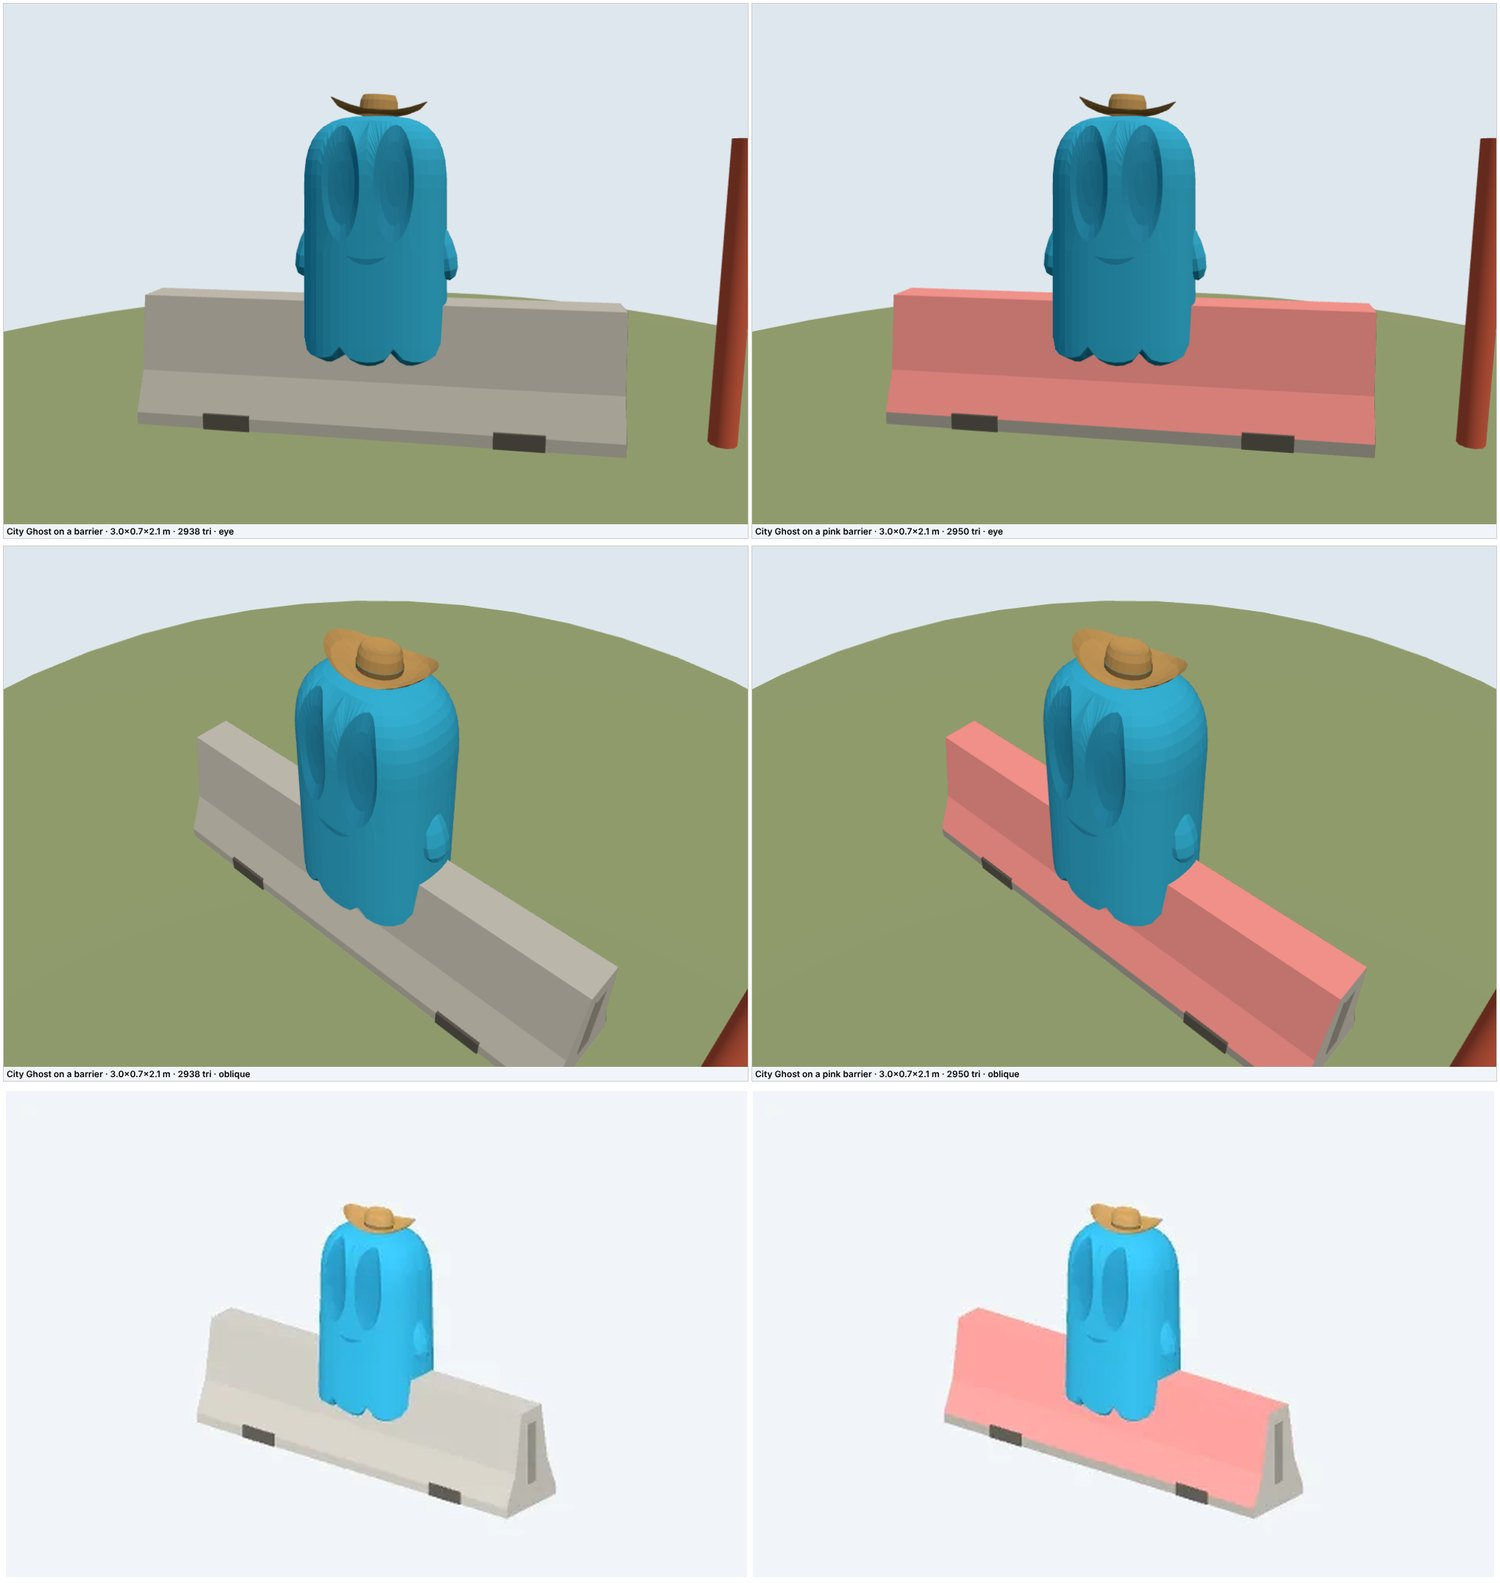
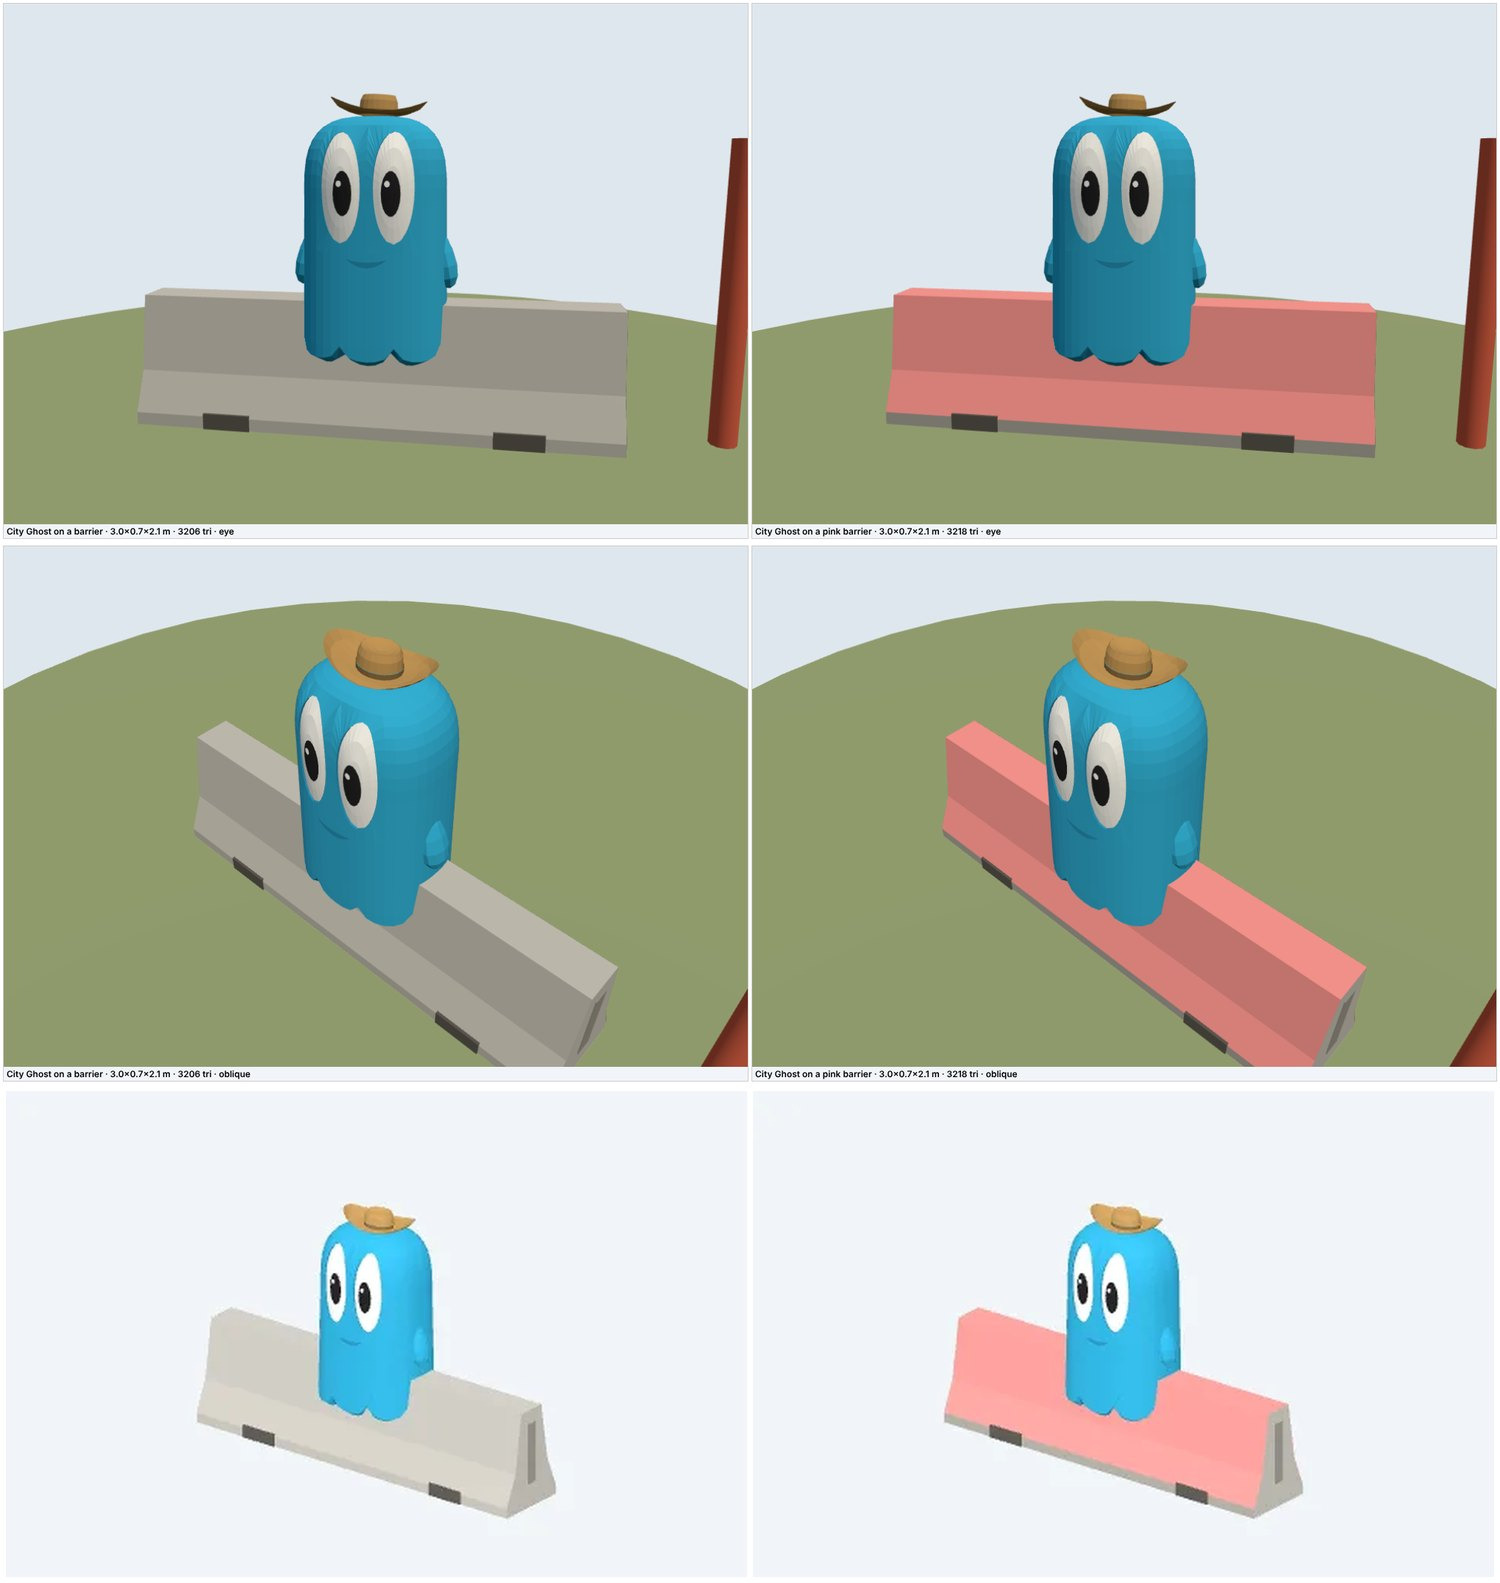
Give the City Ghost its white eyes and black pupils
A daylight photograph of the finished sculpture shows what the earlier
images did not: each eye socket holds a white insert with a tall black
pupil and a small white highlight. Both ghost models now match.

Each eye is still a block of the body's skin rebuilt around its oval. The
socket now steps 12 mm in at its edge and the white swells 8 mm proud in
the middle; the pupil and highlight are ovals that follow that curve. The
pupils sit slightly toward the nose and below centre. The eyes, mouth and
arms each move down a few centimetres to match the clearer view.

The 153 other models and their card images are byte-identical. A tools
test requires each pupil to lie wholly on the white of its eye.

Kit: 155 objects, 17.1 MB. Bundle: 8,433.4 KB of 8,448 KB.

Claude-Session: https://claude.ai/code/session_01Qre8Fgc7mAHy1S8q3QQMRz

diff --git a/tools/detail_catalogue/build_calgary_details.py b/tools/detail_catalogue/build_calgary_details.py
@@ -2605,20 +2605,22 @@ def district_barrier_seventeenth_ave_single(s):
 # ---------------------------------------------------------------------------
 # City Ghost: a public sculpture made to sit astride these barriers, modelled
 # from photographs and its concept sheet. A blue ghost just under 2 m tall with
-# two tall eye cups, a small smile, stubby arms and a cowboy hat. The sculpture
-# is its artist's work; see docs/CITY_GHOST_BARRIER_2026-11-17.md.
+# two tall white eyes, a small smile, stubby arms and a cowboy hat. The
+# sculpture is its artist's work; see docs/CITY_GHOST_BARRIER_2026-11-17.md.
 #
 # The ghost faces -y. Its body is one skin over rings of a rounded section: a
 # scalloped skirt that hangs either side of the barrier, straight sides and a
 # rounded head. Each eye is a block of that skin rebuilt around an oval, so the
-# cup has a clean edge and is truly set into the head.
+# socket has a clean edge and the white of the eye truly sits in it.
 # ---------------------------------------------------------------------------
 GHOST_BLUE, GHOST_CUP, GHOST_UNDER = '#27a8d2', '#1b8db6', '#187a9f'
+GHOST_WHITE, GHOST_PUPIL, GHOST_GLINT = '#f5f5f2', '#16161a', '#ffffff'
 GHOST_HAT, GHOST_HAT_BAND = '#b98f52', '#8a683a'
 GHOST_A, GHOST_B = .435, .33              # half width and half depth of the body
 GHOST_SKIRT, GHOST_SHOULDER, GHOST_TOP = .585, 1.44, 1.94
 GHOST_COLUMNS, GHOST_LOBES, GHOST_DROP = 48, 8, .125   # six columns to a lobe, so every cusp falls on one
-GHOST_EYE = (.155, 1.545, .115, .335)     # centre x, centre z, half width and half height of an eye
+GHOST_EYE = (.155, 1.52, .118, .32)       # centre x, centre z, half width and half height of an eye
+GHOST_LOOK = (.014, -.03, .056, .13)      # a pupil: how far toward the nose and how far up from the eye's centre, half width, half height
 
 
 def ghost_scale(z):
@@ -2663,8 +2665,9 @@ def ghost_section(count):
 
 def ghost_eye(s, grid, columns, rows, side):
     """Rebuild a block of the skin around one eye: a rim from the block's edge to the oval,
-    then the cup set into the head. columns and rows are the first and last grid lines of
-    the block; side is +1 for the eye at +x."""
+    a shallow step down into the socket, then the white of the eye, which swells gently
+    back out. The black pupil and its glint are painted just proud of the white. columns
+    and rows are the first and last grid lines of the block; side is +1 for the eye at +x."""
     ex, ez, rx, rz = side * GHOST_EYE[0], GHOST_EYE[1], GHOST_EYE[2], GHOST_EYE[3]
     count = len(grid[0])
     (i0, i1), (j0, j1) = columns, rows
@@ -2677,23 +2680,38 @@ def ghost_eye(s, grid, columns, rows, side):
         edge.append((x, y, z))
         oval.append((ex + (x - ex) / reach, ez + (z - ez) / reach))
 
-    def ring(share):
-        """The oval shrunk toward its centre and pushed into the head: flush at the rim, deepest in the middle."""
-        out = []
-        for x, z in oval:
-            px, pz = ex + (x - ex) * share, ez + (z - ez) * share
-            out.append((px, ghost_front(px, pz) + .045 * (1 - share * share) ** .55, pz))
-        return out
+    def white(x, z, proud=0.0):
+        """A point on the white of the eye: 12 mm inside the skin at the socket's edge,
+        swelling to 8 mm outside it in the middle."""
+        share = min(1.0, math.hypot((x - ex) / rx, (z - ez) / rz))
+        return (x, ghost_front(x, z) + .012 * share * share - .008 * (1 - share * share) - proud, z)
 
-    rings = [edge, ring(1.0), ring(.72), ring(.4)]
+    def ring(share):
+        return [white(ex + (x - ex) * share, ez + (z - ez) * share) for x, z in oval]
+
+    rings = [edge, [(x, ghost_front(x, z), z) for x, z in oval], ring(1.0), ring(.72), ring(.4)]
+    tones = (GHOST_BLUE, GHOST_CUP, GHOST_WHITE, GHOST_WHITE)
     total = len(border)
-    for r in range(3):
+    for r, tone in enumerate(tones):
         for k in range(total):
             n = (k + 1) % total
-            s.quad(rings[r][k], rings[r][n], rings[r + 1][n], rings[r + 1][k], GHOST_BLUE if r == 0 else GHOST_CUP)
-    centre = (ex, ghost_front(ex, ez) + .045, ez)
+            s.quad(rings[r][k], rings[r][n], rings[r + 1][n], rings[r + 1][k], tone)
     for k in range(total):
-        s.tri(rings[3][k], rings[3][(k + 1) % total], centre, GHOST_CUP)
+        s.tri(rings[-1][k], rings[-1][(k + 1) % total], white(ex, ez), GHOST_WHITE)
+
+    def patch(cx, cz, hx, hz, colour, proud, segments, shares):
+        """An oval painted on the white of the eye, following its curve."""
+        loops = [[white(cx + hx * share * math.cos(math.tau * k / segments), cz + hz * share * math.sin(math.tau * k / segments), proud) for k in range(segments)] for share in shares]
+        for r in range(len(loops) - 1):
+            for k in range(segments):
+                n = (k + 1) % segments
+                s.quad(loops[r][k], loops[r][n], loops[r + 1][n], loops[r + 1][k], colour)
+        for k in range(segments):
+            s.tri(loops[-1][k], loops[-1][(k + 1) % segments], white(cx, cz, proud), colour)
+
+    px, pz = ex - side * GHOST_LOOK[0], ez + GHOST_LOOK[1]
+    patch(px, pz, GHOST_LOOK[2], GHOST_LOOK[3], GHOST_PUPIL, .004, 18, (1.0, .55))
+    patch(px - .02, pz + .056, .017, .019, GHOST_GLINT, .007, 10, (1.0,))
 
 
 def ghost_blob(s, radii, taper, rings=7, sides=10):
@@ -2769,13 +2787,13 @@ def city_ghost(s):
 
     def lip(k, lower):
         x = -half + 2 * half * k / steps
-        z = 1.116 + .016 * (x / half) ** 2 - (.034 * (1 - (x / half) ** 2) if lower else 0.0)
+        z = 1.095 + .016 * (x / half) ** 2 - (.034 * (1 - (x / half) ** 2) if lower else 0.0)
         return (x, ghost_front(x, z) - .004, z)
     for k in range(steps):
         s.quad(lip(k, True), lip(k + 1, True), lip(k + 1, False), lip(k, False), GHOST_CUP)
 
     for side in (-1, 1):
-        with s.at(side * (GHOST_A * ghost_scale(1.13) - .012), -.02, 1.13, pitch=-side * .2):
+        with s.at(side * (GHOST_A * ghost_scale(1.08) - .012), -.02, 1.08, pitch=-side * .2):
             ghost_blob(s, (.088, .115, .185), .45)
     with s.at(.015, .01, GHOST_TOP + .006, yaw=.2, pitch=.045, roll=-.03):
         ghost_hat(s)
@@ -4241,8 +4259,8 @@ SPECS = [
     spec('district-barrier-fourth-street-green', 'District barrier · Fourth Street · green', 'Traffic & safety', 'Teal 3 m road barrier with the Fourth Street name between two 4s, in white and green. The logo belongs to its business association.', district_barrier_fourth_street_green, 2964, '#23997c'),
     spec('district-barrier-seventeenth-ave', 'District barrier · 17th Ave', 'Traffic & safety', 'Red 3 m road barrier with the 17th Ave logo four times in white. The logo belongs to its business association.', district_barrier_seventeenth_ave, 2965, '#e21a2d'),
     spec('district-barrier-seventeenth-ave-single', 'District barrier · 17th Ave · single logo', 'Traffic & safety', 'Red 3 m road barrier with one large 17th Ave logo in white at its centre. The logo belongs to its business association.', district_barrier_seventeenth_ave_single, 2966, '#e21a2d'),
-    spec('city-ghost-barrier', 'City Ghost on a barrier', 'Water & landmarks', 'Blue ghost sculpture in a cowboy hat, just under 2 m tall, astride a 3 m concrete road barrier. The artwork belongs to its artist.', city_ghost_barrier, 2971, '#27a8d2'),
-    spec('city-ghost-barrier-pink', 'City Ghost on a pink barrier', 'Water & landmarks', 'Blue ghost sculpture in a cowboy hat, just under 2 m tall, astride a 3 m road barrier painted pink. The artwork belongs to its artist.', city_ghost_barrier_pink, 2972, '#ee8f8c'),
+    spec('city-ghost-barrier', 'City Ghost on a barrier', 'Water & landmarks', 'Blue ghost sculpture with big white eyes and a cowboy hat, just under 2 m tall, astride a 3 m barrier. The artwork belongs to its artist.', city_ghost_barrier, 2971, '#27a8d2'),
+    spec('city-ghost-barrier-pink', 'City Ghost on a pink barrier', 'Water & landmarks', 'Blue ghost sculpture with big white eyes and a cowboy hat, just under 2 m tall, astride a pink barrier. The artwork belongs to its artist.', city_ghost_barrier_pink, 2972, '#ee8f8c'),
 ]
 
 

diff --git a/tools/detail_catalogue/test_calgary_details.py b/tools/detail_catalogue/test_calgary_details.py
@@ -257,6 +257,14 @@ class CalgaryDetailsContract(unittest.TestCase):
         self.assertGreater(eye_x - eye_rx, .02)
         self.assertLess(eye_x + eye_rx, module.GHOST_A * .7)
         self.assertLess(eye_z + eye_rz, module.GHOST_TOP)
+        # each pupil lies wholly on the white of its eye, looking a little inward and down
+        toward_nose, up, pupil_rx, pupil_rz = module.GHOST_LOOK
+        self.assertGreater(toward_nose, 0)
+        self.assertLess(up, 0)
+        for dx, dz in ((pupil_rx, 0), (-pupil_rx, 0), (0, pupil_rz), (0, -pupil_rz)):
+            self.assertLess(math.hypot((toward_nose + dx) / eye_rx, (up + dz) / eye_rz), .9)
+        for row in (ghost, pink):
+            self.assertIn('white eyes', row['description'])
 
     def test_backend_allowlist_and_category_tiles(self):
         allow = json.loads(ALLOWLIST.read_text(encoding='utf-8'))

diff --git a/docs/CITY_GHOST_BARRIER_2026-11-17.md b/docs/CITY_GHOST_BARRIER_2026-11-17.md
@@ -10,8 +10,8 @@ existing public art sculpture. Searching `ghost` lists them.
 
 | Item | W × D × H (m) | Triangles |
 |---|---:|---:|
-| City Ghost on a barrier | 3.0 × 0.7 × 2.1 | 2,938 |
-| City Ghost on a pink barrier | 3.0 × 0.7 × 2.1 | 2,950 |
+| City Ghost on a barrier | 3.0 × 0.7 × 2.1 | 3,206 |
+| City Ghost on a pink barrier | 3.0 × 0.7 × 2.1 | 3,218 |
 
 ## The artwork belongs to its artist
 
@@ -34,10 +34,14 @@ were not copied, so the pink barrier here is plain.
 
 ## What it was modelled from
 
-Three images supplied by the program:
+Four images supplied by the program:
 
+- a photograph of the finished sculpture in daylight, from the front, on a pink
+  barrier. It shows the eyes: a white insert in each socket with a black pupil
+  and a white highlight. This arrived after the first version and is the
+  clearest view of the face;
 - a photograph of the installed sculpture at night, from the front, on a pink
-  barrier;
+  barrier, before the eyes were fitted;
 - the concept sheet, with renders of the ghost on a grey barrier, the hat
   fastening, the eye cups and the design process;
 - a photograph of the sculpture being lowered onto a barrier, from behind and
@@ -53,15 +57,16 @@ they are estimates.
 | Height | Head tops out just under 2 m; the hat sits above | Head at 1.94 m, hat to 2.07 m |
 | Body | About 0.87 m wide, straight sides, a rounded head | 0.87 m wide and 0.66 m deep, with a slight flare toward the skirt |
 | Skirt | Rounded lobes with sharp notches between, hanging about 0.3 m below the top of the barrier on both sides | Eight lobes, three across the front, down to 0.46 m above the ground |
-| Eyes | Two tall oval cups set into the head, about 0.23 m by 0.68 m, 8 cm apart | Two cups 0.23 m by 0.67 m, 8 cm apart, 4.5 cm deep, a shade darker inside |
-| Mouth | A small smile below the eyes | A crescent 0.24 m wide, a shade darker |
-| Arms | A stubby teardrop on each side at mid height | An egg shape on each side, tilted out at the bottom |
+| Eyes | Two tall oval sockets about 8 cm apart, each filled by a white insert that swells out a little, with a tall black pupil in its lower half and a small white highlight | Two sockets 0.24 m by 0.64 m, 7 cm apart. The white steps 12 mm in at the edge and swells 8 mm proud in the middle. Each pupil is 0.11 m by 0.26 m, set slightly toward the nose and below centre, with a highlight at its upper outer side |
+| Mouth | A small smile below the eyes, a little lopsided | A level crescent 0.24 m wide, a shade darker |
+| Arms | A stubby teardrop on each side, level with the mouth | An egg shape on each side, tilted out at the bottom |
 | Hat | A tan cowboy hat, brim about 0.6 m wide and curled up at the sides, slightly askew | The same, turned and tilted a little |
 | Colour | Blue, for the Blue Sky City branding | `#27a8d2` |
 | Fit | A slot in the base drops over the top of the barrier | The body passes through the barrier, which gives the same look |
 
 The depth of the body, the back, and the exact shape of the arms come from the
-one photograph from behind, so they are the least certain.
+one photograph from behind, so they are the least certain. The sculpture's smile is
+a little lopsided; the model's is level.
 
 ## Method
 
@@ -72,8 +77,10 @@ convention: linear vertex colours, flat normals, one matte mesh, no textures.
   Rings are few on the straight sides and close together over the head.
 - **Eyes.** A dent pressed into a regular grid has a ragged edge. So each eye
   is a block of the skin rebuilt around its oval: a rim from the block's edge to
-  the oval, then the cup inside it. The oval has a clean edge and the cup is
-  truly set into the head.
+  the oval, a shallow step down, then the white of the eye, which swells back
+  out. The oval has a clean edge and the white truly sits in its socket. The
+  pupil and its highlight are ovals that follow the curve of the white, a few
+  millimetres proud of it.
 - **Skirt.** Two more rings whose height follows eight lobes, tucked under at
   the tips. Each lobe is six columns wide, so every notch falls on a column.
 - **Smile, arms, hat.** The smile is a strip a few millimetres proud of the
@@ -81,16 +88,19 @@ convention: linear vertex colours, flat normals, one matte mesh, no textures.
   curls up at both sides, a band and a creased crown.
 
 The sculpture has a satin finish; the model is matte like the rest of the kit.
-The two models total 673,628 bytes and 5,888 triangles. The 153 earlier models
+The two models total 734,732 bytes and 6,424 triangles. The 153 earlier models
 and their card images are byte-identical.
 
 ## Verification
 
-- Rendered at eye level, oblique and card size, and compared with the three
+- Rendered at eye level, oblique and card size, and compared with the four
   images ([sheet](calgary-details-v1/city-ghost-review.jpg)). Changed after the
   first review: the skirt's notches were falling between columns and read as
   shallow waves, so the skin was given six columns to a lobe; the hat was
-  raised so the head no longer showed through its brim. Agent review passed;
+  raised so the head no longer showed through its brim. Changed after the
+  daylight photograph arrived: the empty eye cups became white eyes with pupils
+  and highlights, and the eyes, mouth and arms were each moved down a few
+  centimetres to match the clearer view. Agent review passed;
   independent human visual acceptance, and the artist's own review, are open.
 - Placed on the test street through the app's own placement code
   ([on a pink barrier](calgary-details-v1/scene-city-ghost-pink.jpg),
@@ -98,8 +108,9 @@ and their card images are byte-identical.
   All 240 local models passed the datum, size and anchor checks.
 - A tools test requires the head to top out between 1.9 m and 2.0 m, the skirt
   to hang below the top of the barrier, the body to be the same left and right,
-  each eye to lie on the front of the head, and each description to say the
-  artwork belongs to its artist. A frontend test checks the two names.
+  each eye to lie on the front of the head, each pupil to lie wholly on the
+  white of its eye, and each description to say the artwork belongs to its
+  artist. A frontend test checks the two names.
 - In the real project page with a mocked backend, in a temporary browser trial
   that was not committed: both are found by searching `ghost`, load from their
   static card images without requesting a model file, and choosing one arms
